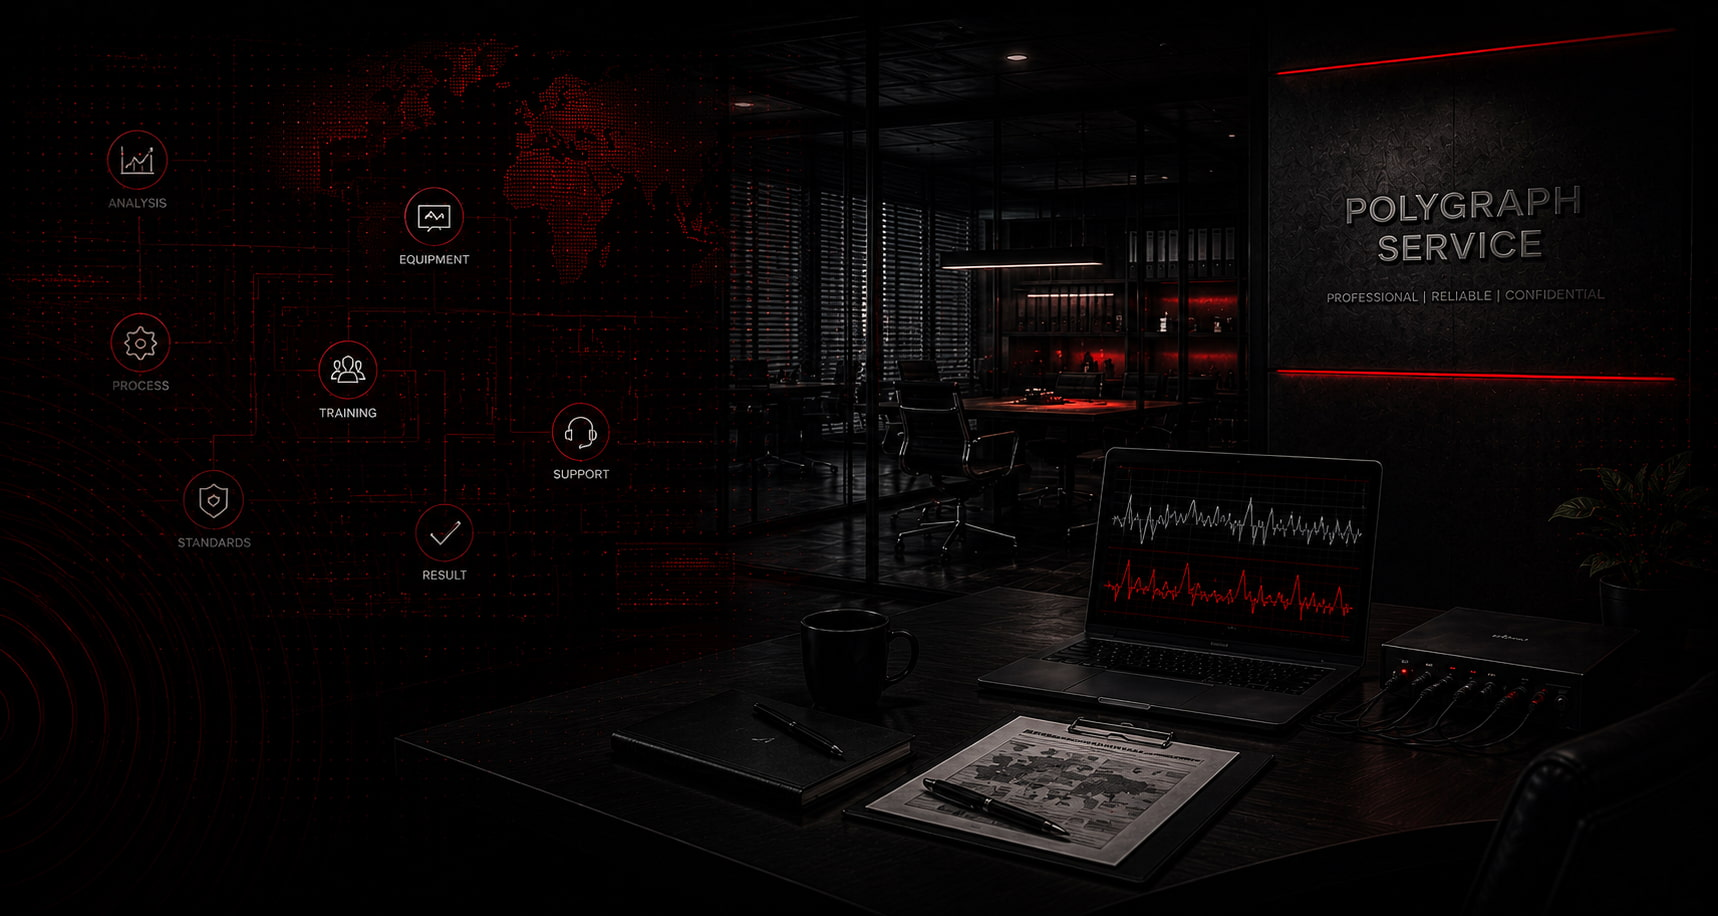
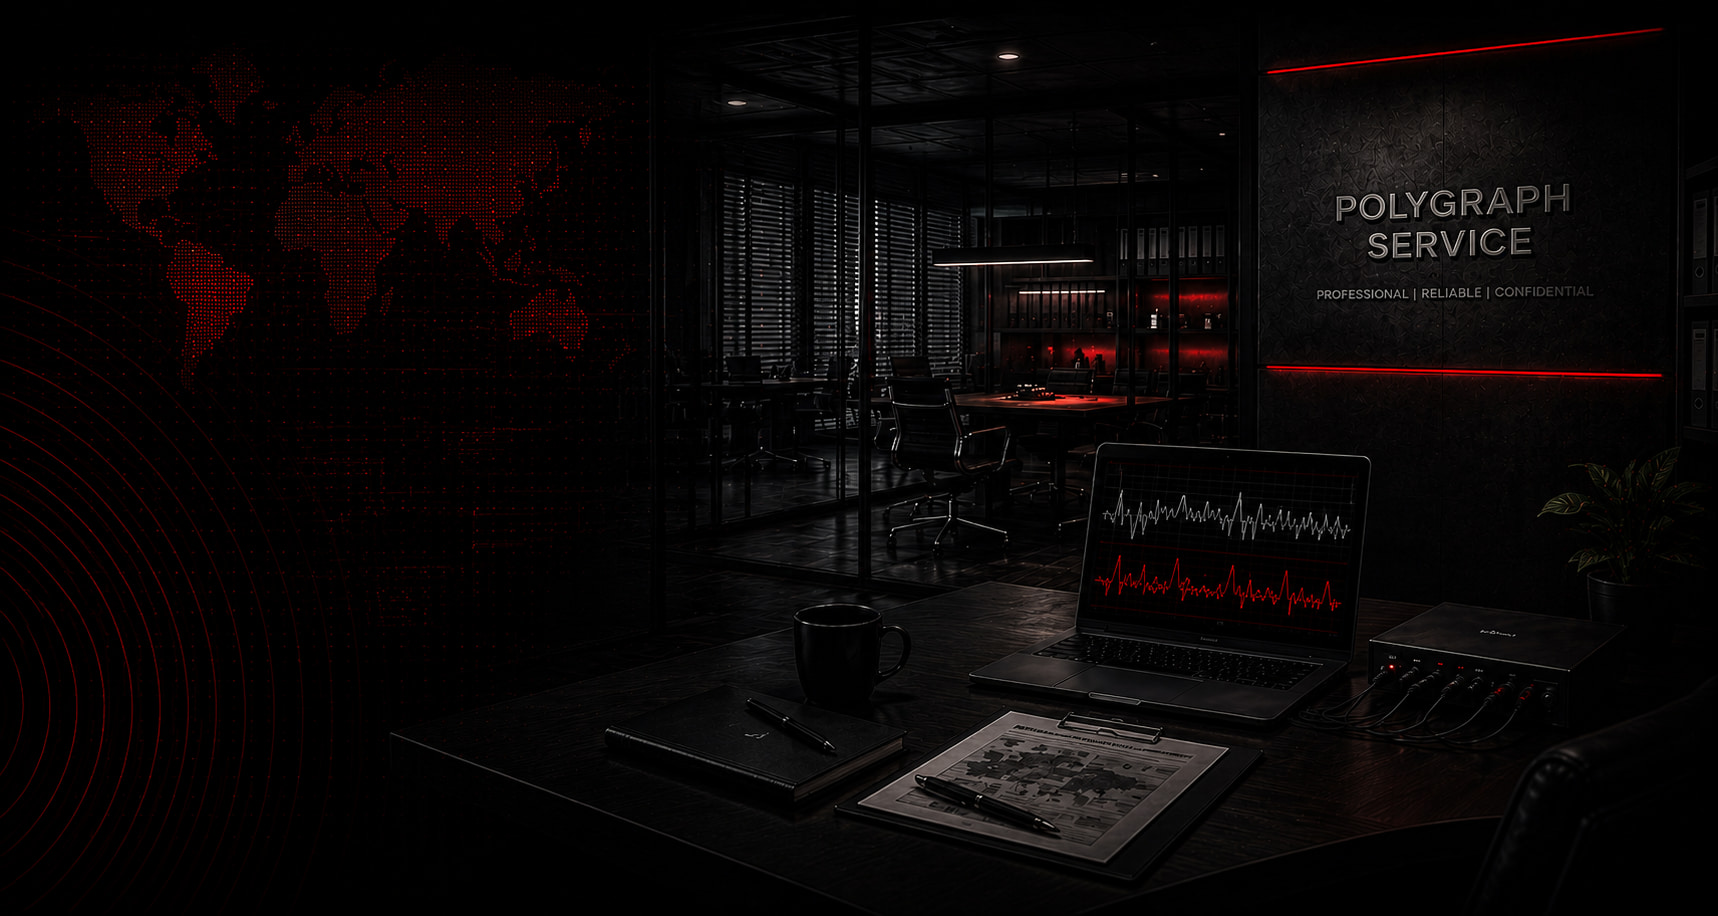
add

diff --git a/index.html b/index.html
@@ -397,7 +397,7 @@ referrerpolicy="no-referrer"
     <a href="./perevirka_personalu.html" class="price-link">
       <h3 class="price-item-title">ТЕСТУВАННЯ ПЕРСОНАЛУ</h3>
       <p class="price-item-txt">Перевірка співробітників на доброчесність, лояльність та ризики для компанії.</p>
-      <p class="price-item-txt">від <span class="price-accent">3000</span> грн</p>
+      <p class="price-item-txt">від <span class="price-accent">3 000</span> грн</p>
     </a> 
   </li>
   <li class="price-item">
@@ -409,7 +409,7 @@ referrerpolicy="no-referrer"
     <a href="./rozsliduvannya_incydentiv.html" class="price-link">
       <h3 class="price-item-title">РОЗСЛІДУВАННЯ ІНЦИДЕНТІВ</h3>
       <p class="price-item-txt">Виявлення причин інцидентів, шахрайства, витоків даних та внутрішніх порушень.</p>
-      <p class="price-item-txt">від <span class="price-accent">4000</span> грн</p>
+      <p class="price-item-txt">від <span class="price-accent">4 000</span> грн</p>
     </a> 
   </li>
   <li class="price-item">
@@ -433,7 +433,7 @@ referrerpolicy="no-referrer"
     <a href="./biznes_perevirka.html" class="price-link">
       <h3 class="price-item-title">БІЗНЕС-ПЕРЕВІРКИ</h3>
       <p class="price-item-txt">Комплексна перевірка контрагентів, партнерів, компаній та фізичних осіб.</p>
-      <p class="price-item-txt">від <span class="price-accent">3000</span> грн</p>
+      <p class="price-item-txt">від <span class="price-accent">3 000</span> грн</p>
     </a> 
   </li>
   <li class="price-item">
@@ -445,7 +445,7 @@ referrerpolicy="no-referrer"
     <a href="./perevirka-z-vyizdom.html" class="price-link">
       <h3 class="price-item-title">ПЕРЕВІРКА З ВИЇЗДОМ</h3>
       <p class="price-item-txt">Проведення поліграфного тестування на території замовника з виїздом спеціаліста у зручний час.</p>
-      <p class="price-item-txt">від <span class="price-accent">5000</span> грн</p>
+      <p class="price-item-txt">від <span class="price-accent">5 000</span> грн</p>
     </a> 
   </li>
   <li class="price-item">
@@ -457,7 +457,19 @@ referrerpolicy="no-referrer"
     <a href="./perevirka_ec.html" class="price-link">
       <h3 class="price-item-title">ПЕРЕВІРКА ЗА КОРДОНОМ</h3>
       <p class="price-item-txt"> Проведення перевірок за межами України з виїздом поліграфолога до будь-якої країни Європейського Союзу</p>
-      <p class="price-item-txt">від <span class="price-accent">8000</span> грн</p>
+      <p class="price-item-txt">від <span class="price-accent">8 000</span> грн</p>
+    </a> 
+  </li>
+  <li class="price-item">
+    <div class="icon-wrap price-icon-wrap">
+      <svg class="icon" width="35" height="35">
+         <use href="./img/sprite.svg#users-alt"></use>
+      </svg>
+   </div>
+    <a href="./perevirka_ec.html" class="price-link">
+      <h3 class="price-item-title">Організація поліграфічної служби</h3>
+      <p class="price-item-txt">Створимо для вашої компанії власну поліграфічну службу. Від підбору обладнання та навчання до підбору штатного поліграфолога.</p>
+      <p class="price-item-txt">від <span class="price-accent">10 000</span> грн</p>
     </a> 
   </li>
  </ul>

diff --git a/konsaltynh.html b/konsaltynh.html
@@ -46,7 +46,7 @@
         <h1 class="title hero-title">Організація <span class="accent">поліграфічної служби</span></br>під ключ</h1>
     
         <p class="title hero-sub-title">
-          Створимо для вашої компанії власну поліграфічну службу — від підбору обладнання до навчання або підбору штатного поліграфолога.
+          Створимо для вашої компанії власну поліграфічну службу - від підбору обладнання до навчання або підбору штатного поліграфолога.
         </p>
     
         <p class="hero-txt">
@@ -57,7 +57,7 @@
           <li class="hero-features-item">
             <div class="cta-icon-wrap">
               <svg class="cta-icon" width="20" height="20">
-                <use href="./img/sprite.svg#lock"></use>
+                <use href="./img/sprite.svg#door-key"></use>
               </svg>
             </div>
             <p class="hero-features-text">Запуск служби під ключ</p>
@@ -75,7 +75,7 @@
           <li class="hero-features-item">
             <div class="cta-icon-wrap">
               <svg class="cta-icon" width="20" height="20">
-                <use href="./img/sprite.svg#time-twenty-four"></use>
+                <use href="./img/sprite.svg#hr-person"></use>
               </svg>
             </div>
             <p class="hero-features-text">Комплексний супровід</p>
@@ -235,24 +235,21 @@
           <li class="cases-item">
             <div class="icon-wrap cases-icon-wrap">
               <svg class="icon" width="35" height="35">
-                <use href="./img/sprite.svg#briefcase"></use>
+                <use href="./img/sprite.svg#user-headset"></use>
               </svg>
             </div>
     
             <h3 class="cases-item-title">
               HR-відділи
             </h3>
-    
             <p class="cases-item-text">
               Допомагаємо інтегрувати поліграф у процес підбору персоналу та регулярного кадрового контролю.
             </p>
-    
           </li>
-    
           <li class="cases-item">
             <div class="icon-wrap cases-icon-wrap">
               <svg class="icon" width="35" height="35">
-                <use href="./img/sprite.svg#gear"></use>
+                <use href="./img/sprite.svg#list-check"></use>
               </svg>
             </div>
     
@@ -269,7 +266,7 @@
           <li class="cases-item">
             <div class="icon-wrap cases-icon-wrap">
               <svg class="icon" width="35" height="35">
-                <use href="./img/sprite.svg#graph-up"></use>
+                <use href="./img/sprite.svg#chart-line-up"></use>
               </svg>
             </div>
     
@@ -302,7 +299,7 @@
           <li class="benefits-item">
             <div class="icon-wrap benefits-icon-wrap">
               <svg class="icon" width="35" height="35">
-                <use href="./img/sprite.svg#stats"></use>
+                <use href="./img/sprite.svg#brain-circuit-1"></use>
               </svg>
             </div>
     
@@ -336,7 +333,7 @@
           <li class="benefits-item">
             <div class="icon-wrap benefits-icon-wrap">
               <svg class="icon" width="35" height="35">
-                <use href="./img/sprite.svg#list-check"></use>
+                <use href="./img/sprite.svg#search-alt"></use>
               </svg>
             </div>
     
